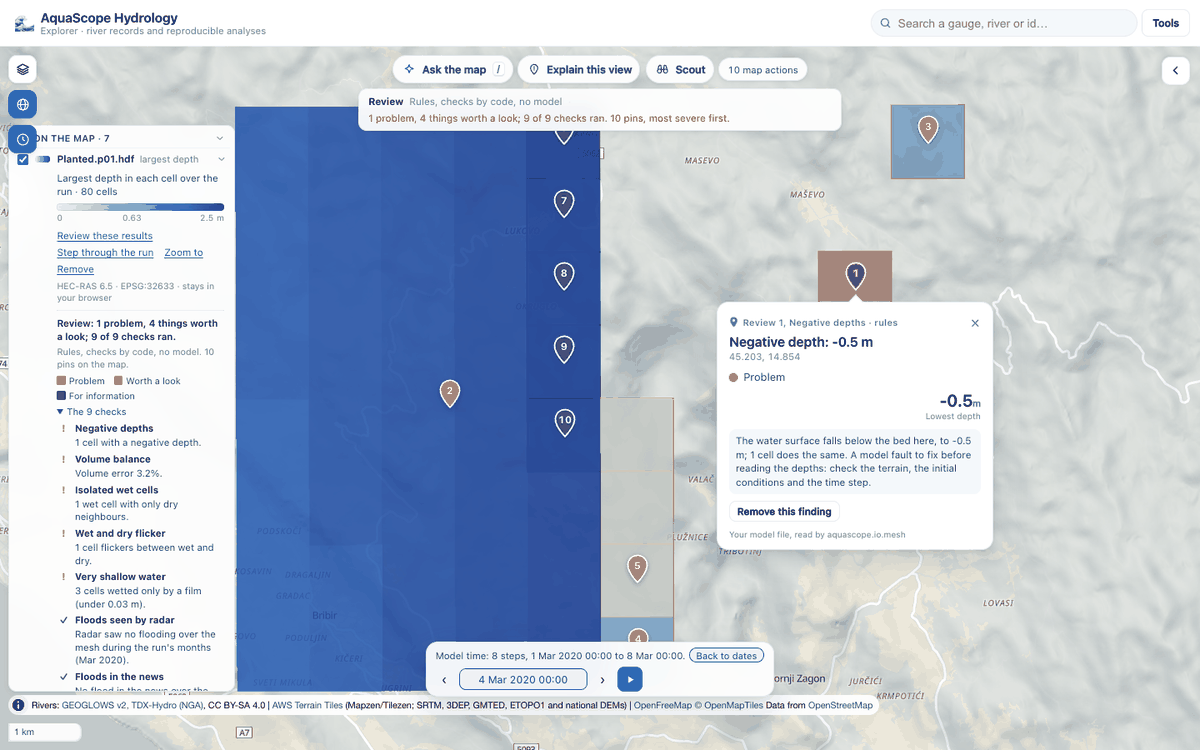
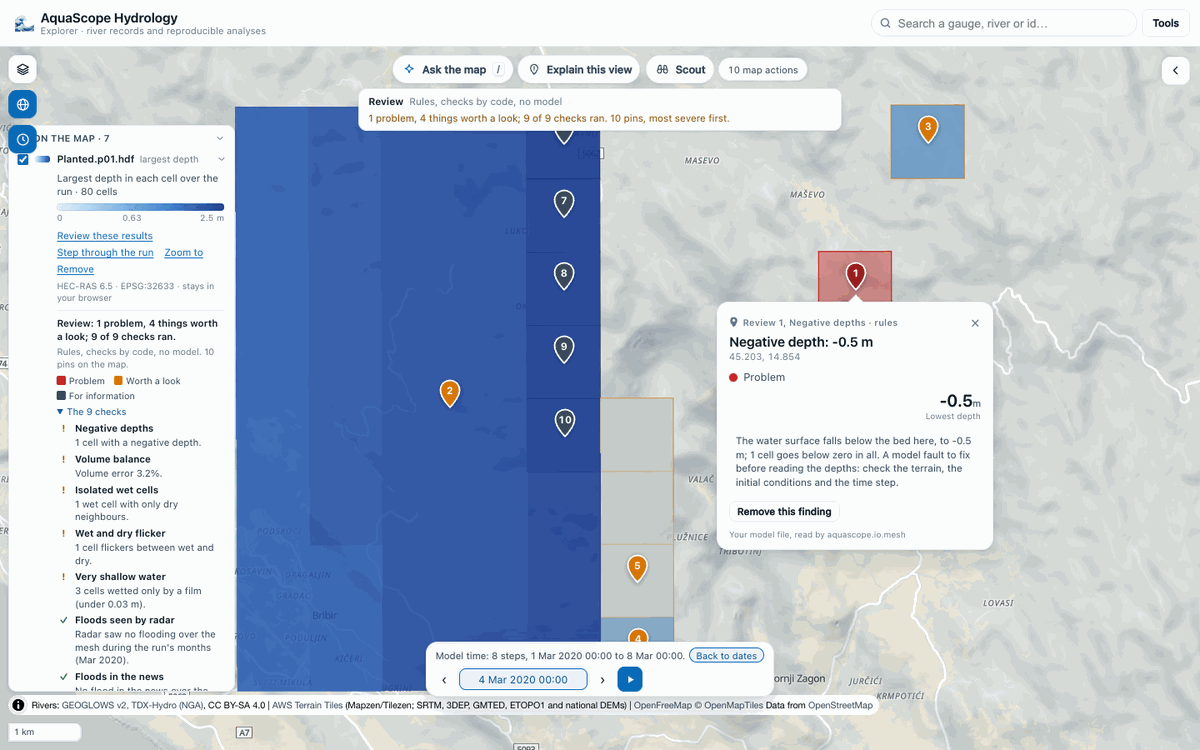
Review fixes: every gauge in the mesh counted, a sign against a placeholder refused, plainer counts (#564)
- The gauge check said '5 gauges inside the mesh' on Bald Eagle Creek, where 6 stand: gauges_inside now
  returns them all, the first five are read and the line counts the rest.
- The claim lock let '-{f1}' turn a 3.2% volume error into -3.2%: a sign, a digit or 'minus' against a
  placeholder is refused; a fact's unit (m3/s, 1000 m3) is code's and no longer refuses wording.
- '1 cells are like it' and '32 1000 m3' read as '1 such cell in all' and '32 x 1000 m3'; offline,
  the flood checks say they were not looked up rather than could not be read.
- Screenshots retaken: the old ones lost the red and amber of the severity key to an 8-bit palette.

diff --git a/aquascope/mesh_review.py b/aquascope/mesh_review.py
@@ -376,8 +376,8 @@ def _negative(m: Mesh, sc: dict[str, Any], ids: _Ids, unit: str | None, k: float
     f2 = _fact(ids, "Cells with a negative depth", int(bad.size), "cells", _count(bad.size))
     title = f"Negative depth: {f1['shown']}{u}"
     reason = (f"The water surface falls below the bed here, to {f1['shown']}{u}; {f2['shown']} "
-              f"{'cell does' if bad.size == 1 else 'cells do'} the same. A model fault to fix before reading the "
-              "depths: check the terrain, the initial conditions and the time step.")
+              f"{'cell goes' if bad.size == 1 else 'cells go'} below zero in all. A model fault to fix before "
+              "reading the depths: check the terrain, the initial conditions and the time step.")
     return [_finding("negative", "problem", m.lat[worst], m.lon[worst], title, reason, [f1, f2], SOURCES["model"],
                      cells=bad)], "flagged", f"{_plural(int(bad.size), 'cell')} with a negative depth."
 
@@ -406,7 +406,8 @@ def _tiny(m: Mesh, sc: dict[str, Any], ids: _Ids, unit: str | None, k: float) ->
                        f"{round(100 * film.size / max(wet, 1))}%")
             facts = [f1, f2, f3]
             reason = (f"This cell never gets deeper than {f1['shown']}{u}, under {limit}{u}. "
-                      f"{f2['shown']} cells are like it, {f3['shown']} of those that get wet: rain on the grid, "
+                      f"{f2['shown']} {'cell in all is' if film.size == 1 else 'cells in all are'} like it, "
+                      f"{f3['shown']} of those that get wet: rain on the grid, "
                       "a terrain or a tolerance problem.")
             cells = film
         else:
@@ -444,7 +445,8 @@ def _isolated(m: Mesh, sc: dict[str, Any], ids: _Ids, unit: str | None, nb: tupl
             f2 = _fact(ids, "Isolated wet cells", int(alone.size), "cells", _count(alone.size))
             facts.append(f2)
             reason = (f"This cell holds water ({f1['shown']}{u}) while every neighbour stays dry{proxy}; "
-                      f"{f2['shown']} cells are like it. A pit in the terrain, a source term or a wet start "
+                      f"{f2['shown']} {'such cell' if alone.size == 1 else 'such cells'} in all. A pit in the terrain, "
+                      "a source term or a wet start "
                       "left behind.")
         else:
             reason = f"Another wet cell with only dry neighbours ({f1['shown']}{u})."
@@ -473,7 +475,8 @@ def _flicker(m: Mesh, sc: dict[str, Any], ids: _Ids) -> tuple[list, str, str]:
             f3 = _fact(ids, "Cells that flicker", int(bad.size), "cells", _count(bad.size))
             facts.append(f3)
             reason = (f"This cell goes from wet to dry or back {f1['shown']} times in {f2['shown']} steps; "
-                      f"{f3['shown']} cells flicker like it. Often a sign of a time step too long for the mesh "
+                      f"{f3['shown']} {'cell flickers' if bad.size == 1 else 'cells flicker'} in all. Often a sign "
+                      "of a time step too long for the mesh "
                       "or of a shallow, flat area at the edge of the flow.")
         else:
             reason = f"Another cell that flickers: {f1['shown']} changes in {f2['shown']} steps."
@@ -554,7 +557,9 @@ def _mass(m: Mesh, ids: _Ids, wet: np.ndarray) -> tuple[list, str, str]:
         sev = "warning"
     else:
         return [], "ok", f"The model's own volume error is {f1['shown']}{where}, within {fmt(VOLUME_WARN_PCT, 1)}%."
-    extra = f", {facts[1]['shown']} {w['unit'] or ''}".rstrip() if len(facts) > 1 else ""
+    vu = (w["unit"] or "").strip()
+    vu = f" × {vu}" if vu[:1].isdigit() else (f" {vu}" if vu else "")   # "1000 m3" is a unit of a thousand
+    extra = f", {facts[1]['shown']}{vu}" if len(facts) > 1 else ""
     reason = (f"The model's own volume accounting{where} says {f1['shown']} of the water is not accounted "
               f"for{extra}. Over {fmt(VOLUME_WARN_PCT, 1)}% is worth fixing before the depths are used: time step, "
               "mesh size near steep terrain, boundary conditions.")
@@ -577,6 +582,8 @@ def _overlap(run: tuple[str, str] | None, period: tuple[str, str] | None) -> boo
 
 def _radar(m: Mesh, wet: np.ndarray, floods: dict[str, Any] | None, ids: _Ids) -> tuple[list, str, str]:
     radar = (floods or {}).get("radar")
+    if floods is None:
+        return [], "skipped", "The floods seen by radar were not looked up."
     if not radar or radar.get("rows") is None:
         return [], "skipped", "The radar floods could not be read" + (
             f" ({radar.get('error')})." if radar and radar.get("error") else ".")
@@ -640,6 +647,8 @@ def _radar(m: Mesh, wet: np.ndarray, floods: dict[str, Any] | None, ids: _Ids) -
 
 def _news(m: Mesh, wet: np.ndarray, floods: dict[str, Any] | None, ids: _Ids) -> tuple[list, str, str]:
     news = (floods or {}).get("news")
+    if floods is None:
+        return [], "skipped", "The floods in the news were not looked up."
     if not news or news.get("events") is None:
         return [], "skipped", "The news floods could not be read" + (
             f" ({news.get('error')})." if news and news.get("error") else ".")
@@ -711,7 +720,7 @@ def _news(m: Mesh, wet: np.ndarray, floods: dict[str, Any] | None, ids: _Ids) ->
 
 def gauges_inside(m: Mesh, rows: list[dict[str, Any]]) -> list[dict[str, Any]]:
     """The gauges (``{source, station_id, name, lat, lon}``) that stand inside a cell of the mesh, each with its
-    ``cell``; at most :data:`MAX_GAUGES`."""
+    ``cell`` (all of them: the gauge check reads the first :data:`MAX_GAUGES` and counts the rest)."""
     rows = [r for r in rows or [] if r.get("lat") is not None and r.get("lon") is not None]
     if not rows:
         return []
@@ -720,8 +729,7 @@ def gauges_inside(m: Mesh, rows: list[dict[str, Any]]) -> list[dict[str, Any]]:
     if not rows:
         return []
     cells = cells_at(m, [float(r["lon"]) for r in rows], [float(r["lat"]) for r in rows])
-    out = [{**r, "cell": int(c)} for r, c in zip(rows, cells) if c >= 0]
-    return out[:MAX_GAUGES]
+    return [{**r, "cell": int(c)} for r, c in zip(rows, cells) if c >= 0]
 
 
 def _gauges(m: Mesh, gauges: list[dict[str, Any]] | None, ids: _Ids, unit: str | None) -> tuple[list, str, str]:
@@ -732,6 +740,8 @@ def _gauges(m: Mesh, gauges: list[dict[str, Any]] | None, ids: _Ids, unit: str |
         return [], "ok", "No Archive gauge stands inside the mesh, so no peak can be set against one."
     if not m.times:
         return [], "skipped", "No time steps in this file, so no modelled peak to set against the gauges."
+    total = len(inside)
+    inside = inside[:MAX_GAUGES]
     out = []
     flagged = 0
     for g in inside:
@@ -793,7 +803,8 @@ def _gauges(m: Mesh, gauges: list[dict[str, Any]] | None, ids: _Ids, unit: str |
                                 [fo, fm, fn, fl], src, cells=[c], when=t_model))
     off = (f"{_count(flagged)} observed peak{'' if flagged == 1 else 's'} more than {_plural(GAUGE_DAYS, 'day')} "
            "off the model's" if flagged else f"no observed peak more than {_plural(GAUGE_DAYS, 'day')} off the model's")
-    line = f"{_plural(len(inside), 'gauge')} inside the mesh; {off}."
+    some = f", the first {_count(len(inside))} checked" if total > len(inside) else ""
+    line = f"{_plural(total, 'gauge')} inside the mesh{some}; {off}."
     return out, "flagged" if flagged else "ok", line
 
 
@@ -882,6 +893,7 @@ def review_prompt(findings: list[dict[str, Any]], context: str = "") -> dict[str
         items.append({"id": f["id"], "check": f["label"], "severity": f["severity"], "rules_title": f["rules_title"],
                       "rules_reason": f["rules_reason"],
                       "facts": [{"placeholder": "{" + x["id"] + "}", "label": x["label"], "value": x["shown"],
+                                 **({"unit": x["unit"]} if x.get("unit") else {}),
                                  **({"when": x["when"], "when_placeholder": "{" + x["id"] + ".when}"}
                                     if x.get("when") else {})} for x in f["facts"]]})
     system = "\n".join([
@@ -941,7 +953,13 @@ def _locked(f: dict[str, Any], title: str, reason: str) -> tuple[tuple[str, str]
             return None, f"{{{mt.group(1)}.when}} has no time"
         if mt.group(2) == "place":
             return None, "a place placeholder (findings carry coordinates, not names)"
-    stray = claim_lock(words, list(own.values()))
+    # A sign or a digit against a placeholder changes the number code fills in ("-{f1}" turns 3.2% into -3.2%).
+    touch = re.search(r"[-+−±]\s?(?=\{f\d)|[\d.,](?=\{f\d)|\}(?=\d|[.,]\d)|\b(?:minus|negative|plus)\s+(?=\{f\d)",
+                      words, re.I)
+    if touch:
+        return None, f"a sign or a digit against a placeholder ({touch.group(0).strip() or touch.group(0)})"
+    # A fact's unit is code's too ("m3/s", "1000 m3", "km²"): its digits are not a claim.
+    stray = claim_lock(words, [{**x, "label": f"{x['label']} {x.get('unit') or ''}"} for x in own.values()])
     if stray:
         return None, f"a number not in its facts ({', '.join(stray)})"
     said = f"{f['rules_title']} {f['rules_reason']}".lower()
@@ -1069,8 +1087,11 @@ def gauge_series(gauges: list[dict[str, Any]], start: str, end: str, days: int =
     a = (date.fromisoformat(start[:10]) - timedelta(days=days)).isoformat()
     b = (date.fromisoformat(end[:10]) + timedelta(days=days)).isoformat()
     out = []
-    for g in gauges[:MAX_GAUGES]:
+    for n_g, g in enumerate(gauges):
         row = dict(g)
+        if n_g >= MAX_GAUGES:   # counted by the gauge check, not read
+            out.append(row)
+            continue
         try:
             got = fetch_series(g["source"], g["station_id"])
             s = got.get("series")

diff --git a/tests/test_mesh_review.py b/tests/test_mesh_review.py
@@ -291,6 +291,26 @@ def test_a_gauge_peak_days_off_is_found_and_nothing_else(mesh_of):
     assert "Timing only" in f["reason"]
 
 
+def test_more_gauges_than_are_checked_are_counted(mesh_of):
+    m = mesh_of()
+    many = [{**gauge(m, cell(4, 2), peak_day=3), "station_id": f"TEST-{k}"} for k in range(R.MAX_GAUGES + 2)]
+    rows = [{k: g[k] for k in ("source", "station_id", "name", "lat", "lon")} for g in many]
+    assert len(R.gauges_inside(m, rows)) == R.MAX_GAUGES + 2   # every gauge inside, none dropped unsaid
+    res = R.review(m, context=clean_context(m, gauges=many))
+    line = next(c for c in res["checks"] if c["check"] == "gauges")["line"]
+    assert line.startswith(f"{R.MAX_GAUGES + 2} gauges inside the mesh, the first {R.MAX_GAUGES} checked")
+    assert len(found(res, "gauges")) == R.MAX_GAUGES
+
+
+def test_one_cell_reads_as_one_cell(mesh_of):
+    d = clean_depths()
+    d[2:6, cell(7, 9)] = 0.5
+    m = mesh_of(d, volume_pct=3.2)
+    res = R.review(m, context=clean_context(m))
+    assert "1 such cell in all" in found(res, "isolated")[0]["reason"]
+    assert "32 × 1000 m3" in found(res, "mass_balance")[0]["reason"]
+
+
 # ── what the review says when it cannot check ───────────────────────────────
 
 
@@ -322,6 +342,8 @@ def test_without_context_the_outside_checks_say_they_were_skipped(mesh_of):
     res = R.review(mesh_of())
     by = {c["check"]: c["status"] for c in res["checks"]}
     assert by["floods_radar"] == by["floods_news"] == by["gauges"] == "skipped"
+    lines = {c["check"]: c["line"] for c in R.review(mesh_of())["checks"]}
+    assert "not looked up" in lines["floods_radar"] and "not looked up" in lines["floods_news"]
     assert by["negative"] == "ok" and by["mass_balance"] == "ok"
 
 
@@ -432,6 +454,9 @@ def test_a_models_words_are_held_to_the_facts(mesh_of):
     ("Below the bed", "Twelve cells go below zero.", "number"),
     ("Below the bed", "Depth falls to {F1.when}.", "has no time"),
     ("", "Depth falls.", "empty"),
+    ("Below the bed", "Depth falls to -{F1} m.", "sign or a digit"),
+    ("Below the bed", "Depth falls to {F1}0 m.", "sign or a digit"),
+    ("Below the bed", "Depth falls to minus {F1} m.", "sign or a digit"),
 ])
 def test_the_claim_lock_refuses(mesh_of, title, reason, why):
     res = _review_with_problems(mesh_of)

diff --git a/docs/mesh.md b/docs/mesh.md
@@ -76,7 +76,7 @@ per check saying what it found or why it could not run.
 | Volume balance | the volume error HEC-RAS wrote itself (`Results/Unsteady/Summary/Volume Accounting`): over 1% worth a look, over 5% a problem | as said |
 | Floods seen by radar | 0.05° squares where Sentinel-1 saw flooding (Microsoft AI for Good, Oct 2014 to Sep 2024) and the model keeps every cell dry | worth a look in the run's months, information otherwise |
 | Floods in the news | Groundsource flood reports (2000 on) whose footprint covers cells the model keeps dry | worth a look in the run's days, information otherwise |
-| Gauges in the mesh | the observed peak at each Archive gauge standing in a cell against the model's peak at that cell, timing only (a gauge measures flow or stage, the model depth); more than a day apart is worth a look. When no gauge stands inside the mesh, the line says so | as said |
+| Gauges in the mesh | the observed peak at each Archive gauge standing in a cell (the first five; the line counts them all) against the model's peak at that cell, timing only (a gauge measures flow or stage, the model depth); more than a day apart is worth a look. When no gauge stands inside the mesh, the line says so | as said |
 
 When the run's months are outside the radar or news record, the comparison is made with
 every month on record and every finding says "Not this event": it tells where floods
@@ -117,8 +117,8 @@ the agency).
 
 On HEC's Bald Eagle Creek example (the rashdf copy, which has no bed levels and runs in
 January 1999) five checks run: the run is before the radar and news records, so the
-floods are compared with every month on record; five Archive gauges stand in the mesh,
-two of them with daily records for those days (both falling from the start of the run, so
+floods are compared with every month on record; six Archive gauges stand in the mesh and
+the first five are checked, two of them with daily records for those days (both falling from the start of the run, so
 no peak to time) and three without; the largest rises of the water surface are pinned.
 
 ![The review of the Bald Eagle Creek example](img/globe/564-review-baldeagle.png)
